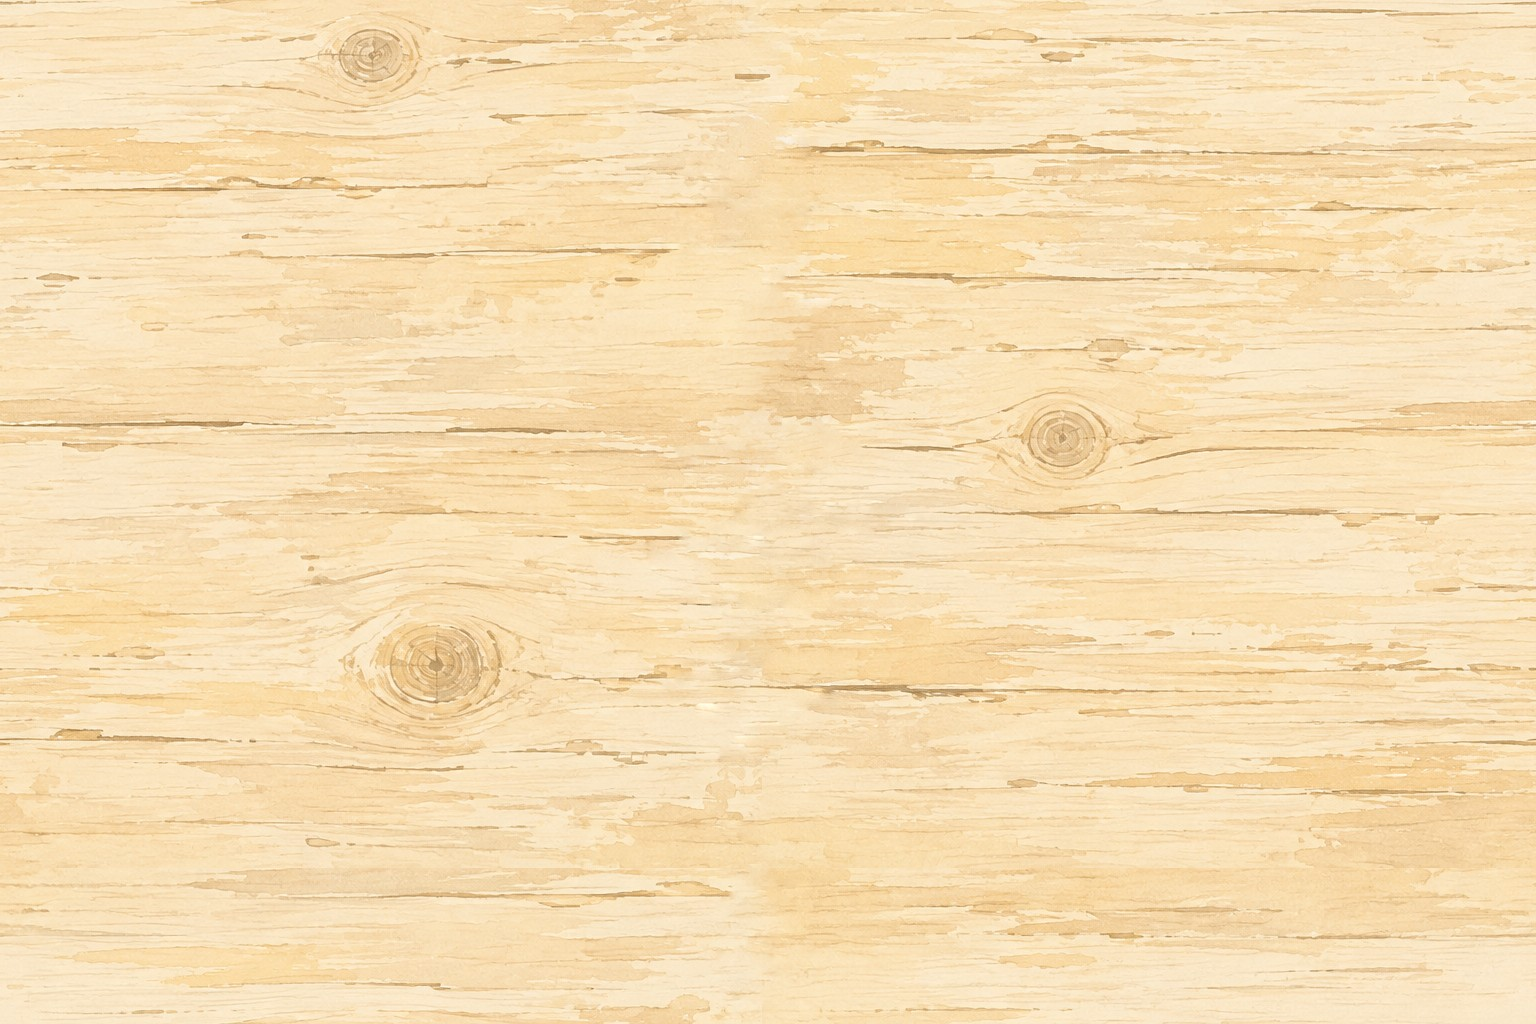
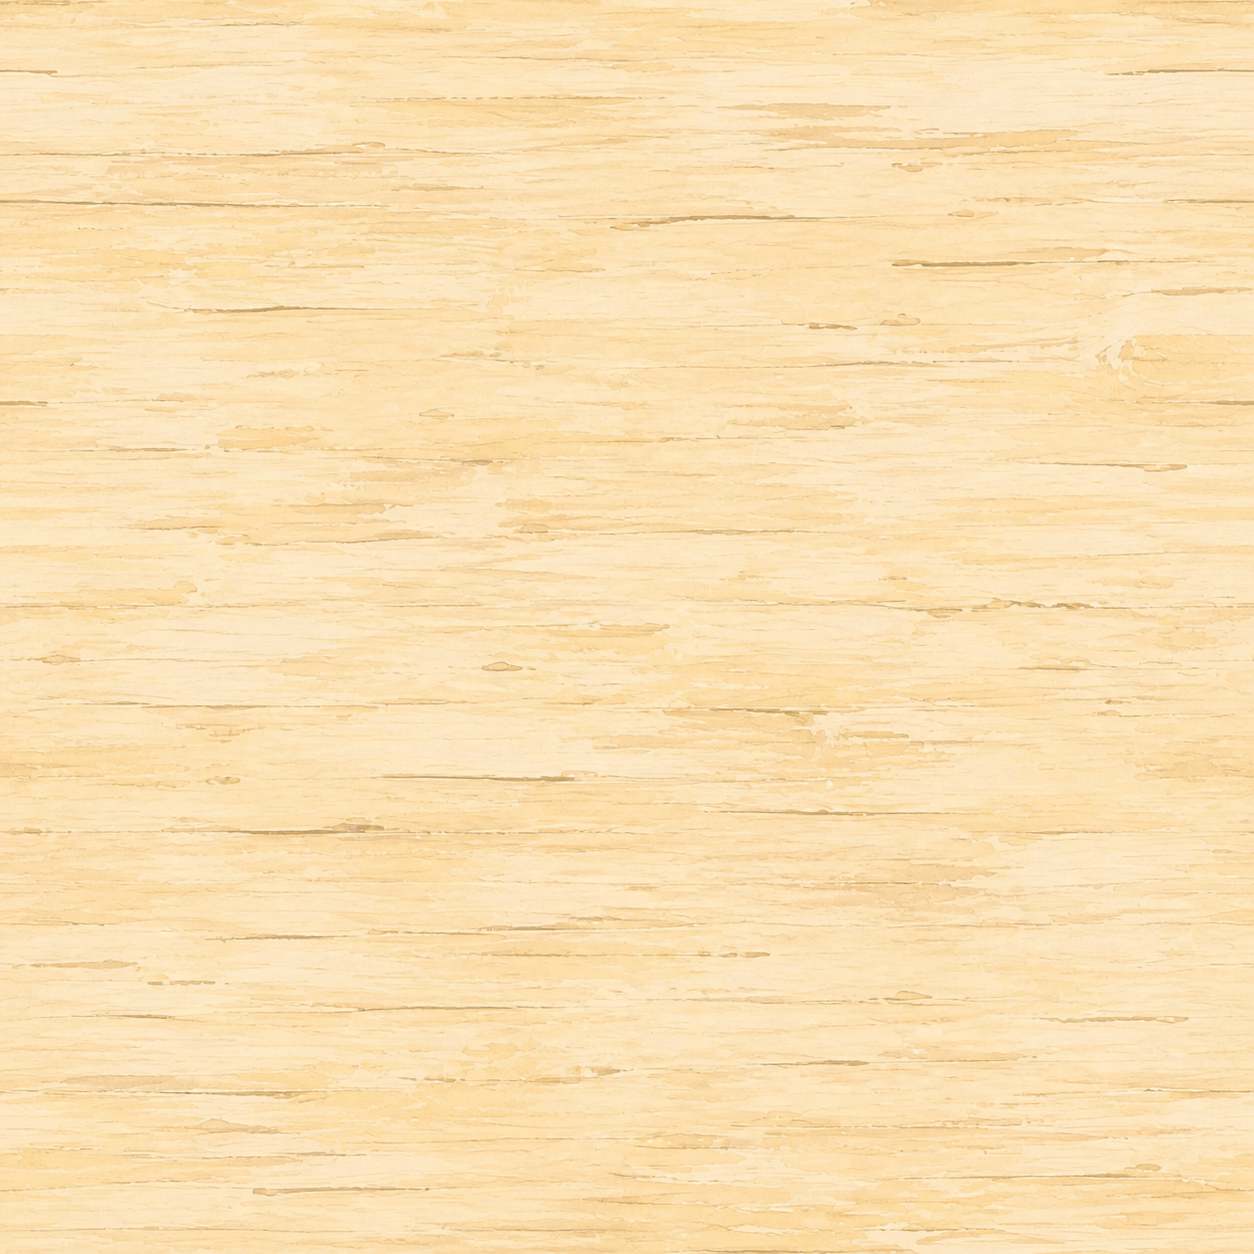
fix(web): tile rulebook board texture

diff --git a/apps/web/src/components/board/BoardFrame.tsx b/apps/web/src/components/board/BoardFrame.tsx
@@ -14,6 +14,7 @@ interface BoardFrameProps {
   disableWheelZoom?: boolean;
   interactive?: boolean;
   ariaLabel?: string;
+  backgroundImageUrl?: string;
 }
 
 export const getBoardFrameGridZoom = (zoom: number): number => {
@@ -35,6 +36,7 @@ export const BoardFrame = ({
   disableWheelZoom = false,
   interactive = true,
   ariaLabel = undefined,
+  backgroundImageUrl,
 }: BoardFrameProps): JSX.Element => {
   const frameRef = useRef<HTMLDivElement | null>(null);
   const dragRef = useRef<{
@@ -146,11 +148,18 @@ export const BoardFrame = ({
   const textureSize = 28 * gridZoom;
   const dotRadius = Math.max(0.7, 1.2 * gridZoom);
   const dotFadeRadius = Math.max(dotRadius + 0.2, 1.4 * gridZoom);
-  const frameStyle: CSSProperties = {
-    backgroundImage: `radial-gradient(circle at center, rgba(255,249,227,0.21) 0 ${dotRadius}px, transparent ${dotFadeRadius}px)`,
-    backgroundPosition: `${-viewport.x * gridZoom}px ${-viewport.y * gridZoom}px`,
-    backgroundSize: `${textureSize}px ${textureSize}px`,
-  };
+  const frameStyle: CSSProperties = backgroundImageUrl
+    ? {
+        backgroundImage: `url(${JSON.stringify(backgroundImageUrl)})`,
+        backgroundPosition: "center",
+        backgroundRepeat: "repeat",
+        backgroundSize: "512px 512px",
+      }
+    : {
+        backgroundImage: `radial-gradient(circle at center, rgba(255,249,227,0.21) 0 ${dotRadius}px, transparent ${dotFadeRadius}px)`,
+        backgroundPosition: `${-viewport.x * gridZoom}px ${-viewport.y * gridZoom}px`,
+        backgroundSize: `${textureSize}px ${textureSize}px`,
+      };
 
   return (
     <div

diff --git a/apps/web/src/components/board/Board.tsx b/apps/web/src/components/board/Board.tsx
@@ -6,7 +6,6 @@ import type { BoardItemRecord } from "../../lib/board/boardController";
 interface BoardProps {
   className?: string;
   renderItem?: (item: BoardItemRecord) => ReactNode;
-  backgroundImageUrl?: string;
 }
 
 const itemToneClass = {
@@ -97,7 +96,6 @@ const BoardItem = ({
 export const Board = ({
   className,
   renderItem,
-  backgroundImageUrl,
 }: BoardProps): JSX.Element => {
   const {
     boardSize,
@@ -114,12 +112,6 @@ export const Board = ({
     transitionProperty: "transform",
     transitionDuration: `${transitionDurationMs}ms`,
     transitionTimingFunction: "cubic-bezier(0.22, 1, 0.36, 1)",
-    backgroundImage: backgroundImageUrl
-      ? `url(${JSON.stringify(backgroundImageUrl)})`
-      : undefined,
-    backgroundPosition: "center",
-    backgroundRepeat: "no-repeat",
-    backgroundSize: "cover",
   };
 
   return (

diff --git a/apps/web/src/components/board/StaticBoardFigure.tsx b/apps/web/src/components/board/StaticBoardFigure.tsx
@@ -26,8 +26,8 @@ export const StaticBoardFigure = ({
   renderItem,
 }: StaticBoardFigureProps): JSX.Element => (
   <BoardProvider boardSize={boardSize} initialItems={items}>
-    <BoardFrame interactive={false} ariaLabel={ariaLabel} className={className}>
-      <Board backgroundImageUrl={backgroundImageUrl} renderItem={renderItem} />
+    <BoardFrame interactive={false} ariaLabel={ariaLabel} className={className} backgroundImageUrl={backgroundImageUrl}>
+      <Board renderItem={renderItem} />
     </BoardFrame>
   </BoardProvider>
 );

diff --git a/apps/web/src/components/board/StaticBoardFigure.test.ts b/apps/web/src/components/board/StaticBoardFigure.test.ts
@@ -10,7 +10,8 @@ test("StaticBoardFigure composes the non-interactive shared board stack", () => 
 
   assert.match(source, /<BoardProvider/);
   assert.match(source, /<BoardFrame[^>]*interactive=\{false\}/);
+  assert.match(source, /<BoardFrame[^>]*backgroundImageUrl=\{backgroundImageUrl\}/);
   assert.match(source, /<Board/);
-  assert.match(source, /backgroundImageUrl=\{backgroundImageUrl\}/);
+  assert.doesNotMatch(source, /<Board\s[^>]*backgroundImageUrl/);
   assert.match(source, /renderItem=\{renderItem\}/);
 });
